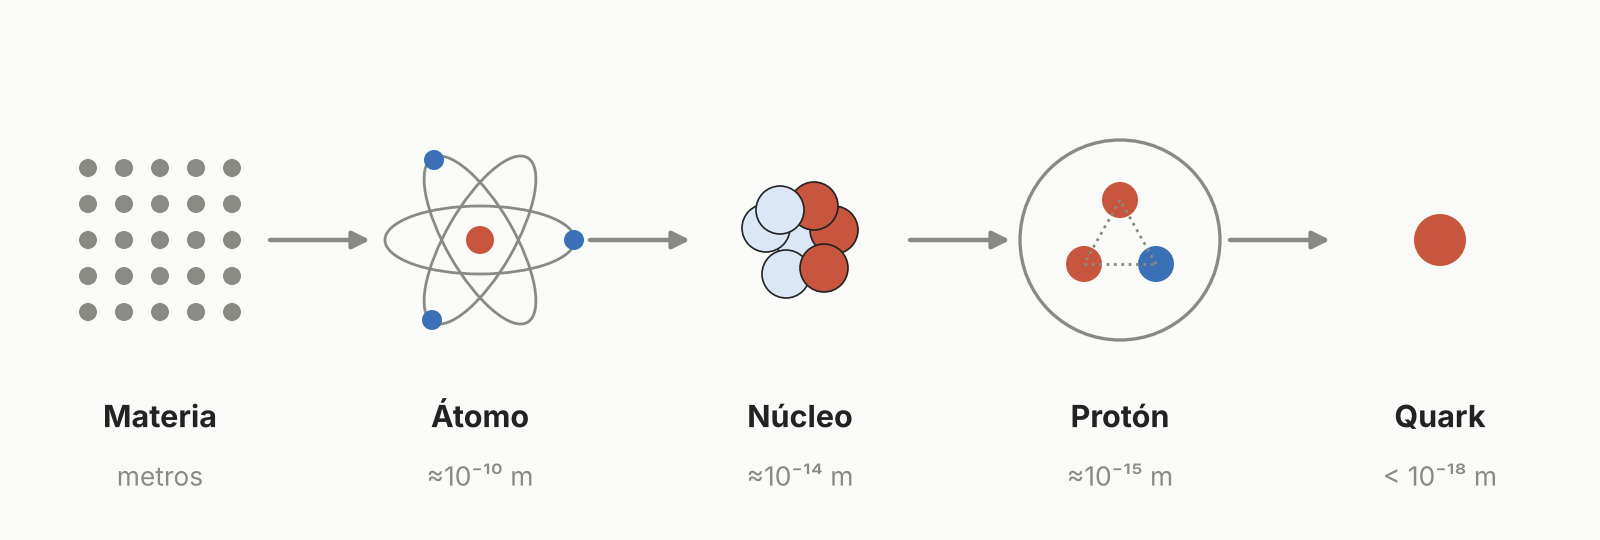
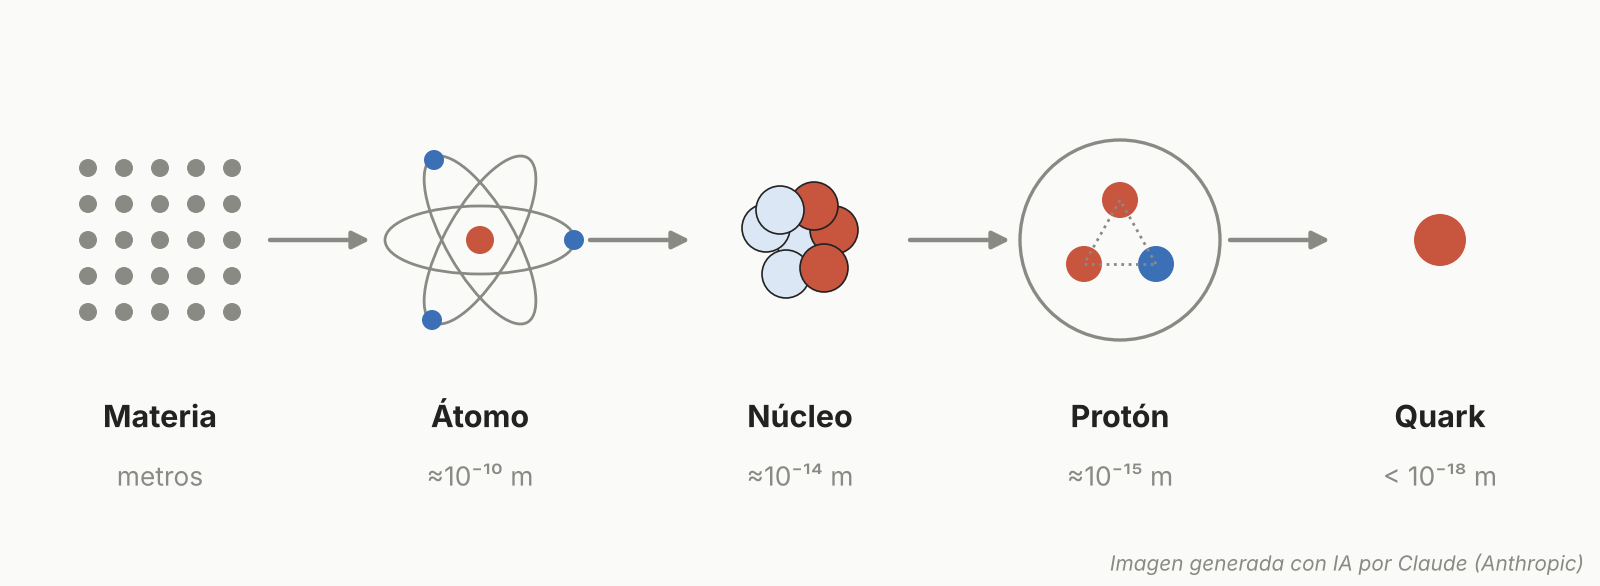
Correcciones de la asesora: energías del LHC por año, leptones medidos por CMS, imágenes con crédito de IA y ejes en español
- Línea de tiempo (imagen + tabla) con la energía de cada haz y del choque por año en la sección del LHC.
- Se especifica en varias secciones que los leptones los midió el detector CMS.
- Todas las ilustraciones llevan la leyenda 'Imagen generada con IA por Claude (Anthropic)'; créditos y README actualizados.
- Ejes de masa: 'Masa invariante de 4 leptones (GeV)' en las imágenes y en las gráficas del tutorial.
- La leyenda 'Datos' del esquema señal/fondo ahora dice 'Datos (ejemplo)'.

Claude-Session: https://claude.ai/code/session_01XBF6a4JfzPpXaimGVnXYs5

diff --git a/index.html b/index.html
@@ -21,7 +21,7 @@
   QUÉ ARCHIVOS LEE (dentro del mismo repositorio)
   -----------------------------------------------
     web_data/muestra_eventos.csv.gz   -> generado con scripts/preparar_muestra.py
-    imagenes/*.png                    -> ilustraciones (scripts/generar_imagenes.py)
+    imagenes/*.png                    -> ilustraciones generadas con IA por Claude (scripts/generar_imagenes.py)
     resultados/grafica_final.png      -> tu gráfica final oficial (opcional)
 
   CÓMO SE VE EN TU COMPUTADORA
@@ -188,7 +188,7 @@
   <p class="autor-intro">Autor: Valeria Rocha Garcia. Esta página es el producto de sus prácticas profesionales, con la asesoría de Isabel Pedraza.</p>
   <figure><img src="imagenes/portada.png" alt="" style="width:760px"></figure>
   <p>Bienvenido. En esta página vas a hacer lo mismo que hace un científico del experimento CMS:
-    tomar millones de colisiones de partículas y <strong>filtrar</strong> los datos hasta encontrar una señal
+    tomar millones de colisiones de partículas registradas por el detector CMS y <strong>filtrar</strong> los datos hasta encontrar una señal
     muy pequeña, la del <strong>bosón de Higgs</strong>. No necesitas conocimientos previos de física, solo curiosidad.</p>
   <div class="aviso info">Los datos son reales: colisiones protón-protón a 8 TeV registradas por CMS en 2012 y
     liberadas públicamente en el portal CERN Open Data.</div>
@@ -211,7 +211,7 @@
     <li>Explicar qué son las partículas, el Modelo Estándar y el bosón de Higgs.</li>
     <li>Describir cómo un detector como CMS identifica electrones y muones.</li>
     <li>Explicar qué es una simulación Monte Carlo y para qué sirve.</li>
-    <li>Aplicar cortes a datos reales y ver cómo aparece (o no) una señal.</li>
+    <li>Aplicar cortes a datos reales (los leptones que midió CMS) y ver cómo aparece (o no) una señal.</li>
   </ul>
   <h2>Ir directo a una sección</h2>
   <div class="rejilla-botones">
@@ -280,7 +280,7 @@
         </tbody>
       </table></div>
       <p>Cada partícula tiene una <strong>antipartícula</strong> con la carga contraria: el positrón (+1) para el
-        electrón y el antimuón (+1) para el muón. En el detector distinguimos ambos por hacia dónde
+        electrón y el antimuón (+1) para el muón. En el detector CMS distinguimos ambos por hacia dónde
         se curvan en el campo magnético.</p>
       <div class="aviso info">La carga eléctrica se conserva. Un Higgs es neutro, así que si se desintegra en 4 leptones,
         la suma de sus cargas debe ser cero: dos positivos y dos negativos.</div>
@@ -366,8 +366,26 @@
       <figure><img src="imagenes/lhc.png" alt="" style="width:720px"><figcaption>El LHC y sus cuatro grandes experimentos.</figcaption></figure>
       <p>El <strong>LHC</strong> (Gran Colisionador de Hadrones) es un anillo de unos 27 km de circunferencia,
         enterrado cerca de Ginebra. Acelera protones casi a la velocidad de la luz en dos haces que giran
-        en sentidos opuestos. En 2012 cada haz tenía 4 TeV, así que cada choque tenía 8 TeV de energía.
-        Cada choque se llama <strong>evento</strong>.</p>
+        en sentidos opuestos. La energía de cada choque es la suma de las energías de los dos haces:
+        en 2012 cada haz tenía 4 TeV, así que cada choque tenía 8 TeV. Cada choque se llama <strong>evento</strong>.</p>
+      <h3>La energía del LHC año con año</h3>
+      <p>El LHC no siempre ha funcionado a la misma energía: se ha ido subiendo por etapas (llamadas <em>Run</em>),
+        con paros largos entre ellas para mejorar el acelerador y los detectores.</p>
+      <figure><img src="imagenes/energias_lhc.png" alt="Gráfica de barras con la energía de colisión del LHC por año, de 2010 a 2026" style="width:720px">
+        <figcaption>Energía de cada haz y de cada choque protón-protón en el LHC, por año. Los datos de esta página son de 2012 (8 TeV).</figcaption></figure>
+      <div class="tabla-wrap"><table>
+        <thead><tr><th>Años</th><th>Etapa</th><th class="num">Energía de cada haz</th><th class="num">Energía del choque</th></tr></thead>
+        <tbody>
+          <tr><th>2010–2011</th><td>Run 1</td><td class="num">3.5 TeV</td><td class="num">7 TeV</td></tr>
+          <tr><th>2012</th><td>Run 1 (datos de esta página)</td><td class="num">4 TeV</td><td class="num"><strong>8 TeV</strong></td></tr>
+          <tr><th>2013–2014</th><td>Paro largo 1</td><td class="num">—</td><td class="num">sin colisiones</td></tr>
+          <tr><th>2015–2018</th><td>Run 2</td><td class="num">6.5 TeV</td><td class="num">13 TeV</td></tr>
+          <tr><th>2019–2021</th><td>Paro largo 2</td><td class="num">—</td><td class="num">sin colisiones</td></tr>
+          <tr><th>2022–2026</th><td>Run 3</td><td class="num">6.8 TeV</td><td class="num">13.6 TeV</td></tr>
+        </tbody>
+      </table></div>
+      <p class="caption">Energía del choque = 2 × energía de cada haz (los dos haces chocan de frente).
+        Valores para colisiones protón-protón.</p>
       <p>Los protones viajan en paquetes que se cruzan decenas de millones de veces por segundo, y en
         cada cruce chocan, en promedio, alrededor de 20 pares de protones a la vez. Es imposible guardar
         todo: un sistema de selección llamado <em>trigger</em> decide en una fracción de segundo qué eventos
@@ -405,7 +423,8 @@
 
     <div class="tabpanel">
       <h2>Las variables que usaremos</h2>
-      <p>Estas son las medidas que usan los cortes del tutorial. Cada una se explica con un esquema.</p>
+      <p>Estas son las medidas que el detector CMS hizo de cada leptón y que usan los cortes del tutorial.
+        Cada una se explica con un esquema.</p>
       <h3>η y pT: ¿hacia dónde va y con cuánta fuerza?</h3>
       <figure><img src="imagenes/eta_pt.png" alt="" style="width:720px"></figure>
       <p><strong>η (eta)</strong> indica el ángulo respecto al haz: η = 0 es perpendicular y valores grandes son casi
@@ -425,10 +444,10 @@
 
     <div class="tabpanel">
       <h2>Del detector al archivo CSV</h2>
-      <figure><img src="imagenes/evento_csv.png" alt="" style="width:720px"><figcaption>Cada evento con 4 leptones se convierte en una fila de la tabla.</figcaption></figure>
+      <figure><img src="imagenes/evento_csv.png" alt="" style="width:720px"><figcaption>Cada evento con 4 leptones medidos por CMS se convierte en una fila de la tabla.</figcaption></figure>
       <ol>
         <li>El detector registra la colisión y el <em>trigger</em> decide si la guarda.</li>
-        <li>Se <strong>reconstruyen</strong> las partículas a partir de las señales de cada capa.</li>
+        <li>Se <strong>reconstruyen</strong> las partículas (por ejemplo, los leptones) a partir de las señales que dejaron en cada capa de CMS.</li>
         <li>CERN Open Data publica los eventos en archivos con formato ROOT.</li>
         <li>Nosotros los convertimos a <strong>CSV</strong>: una fila por evento y una columna por cada medición
           (<code>pt1</code>, <code>eta1</code>, <code>Q1</code>…).</li>
@@ -451,9 +470,12 @@
 
     <div class="tabpanel">
       <h2>La receta de un análisis</h2>
+      <div class="aviso info">Todos los leptones (electrones y muones) que se analizan en esta página fueron
+        <strong>medidos por el detector CMS</strong> del LHC en 2012. Nosotros no medimos nada: analizamos las
+        mediciones que hizo CMS y que la colaboración publicó en el portal CERN Open Data.</div>
       <ol>
         <li><strong>Elegir qué buscar:</strong> un proceso concreto, aquí H → ZZ → 4 leptones.</li>
-        <li><strong>Seleccionar eventos:</strong> aplicar cortes para quedarnos con los que parecen la señal.</li>
+        <li><strong>Seleccionar eventos:</strong> aplicar cortes a los leptones que midió CMS para quedarnos con los eventos que parecen la señal.</li>
         <li><strong>Predecir el fondo:</strong> con simulaciones Monte Carlo, qué esperamos <em>sin</em> Higgs.</li>
         <li><strong>Comparar con los datos:</strong> poner datos y predicción en la misma gráfica.</li>
         <li><strong>Medir la incertidumbre:</strong> ¿el exceso es mayor que una fluctuación al azar?</li>
@@ -464,8 +486,9 @@
     <div class="tabpanel">
       <h2>La masa invariante</h2>
       <figure><img src="imagenes/masa_invariante.png" alt="" style="width:720px"></figure>
-      <p>Si una partícula pesada se desintegra, no podemos verla, pero sí a sus hijas. Con la energía
-        y el momento de las hijas se reconstruye la masa de la madre:</p>
+      <p>Si una partícula pesada se desintegra, no podemos verla, pero el detector CMS sí mide a sus hijas
+        (aquí, los leptones). Con la energía y el momento que CMS midió para las hijas se reconstruye la masa
+        de la madre:</p>
       <div class="formula"><i>m</i><sup>2</sup> = <i>E</i><sup>2</sup> − <i>p<sub>x</sub></i><sup>2</sup> − <i>p<sub>y</sub></i><sup>2</sup> − <i>p<sub>z</sub></i><sup>2</sup>
         &nbsp;&nbsp;(<i>E</i> y <b>p</b> sumados de todas las hijas)</div>
       <p>Ejemplo: si un electrón y un positrón vienen de un Z, su masa invariante sale cerca de 91 GeV.
@@ -475,8 +498,9 @@
       <hr>
       <!-- Ejercicio interactivo (lo llena JavaScript: ver "EJERCICIO DE MASA INVARIANTE") -->
       <h3>Ejercicio: ¿de qué partícula vienen estos leptones?</h3>
-      <p>Un detector midió los leptones de la tabla (los tratamos sin masa, porque es muy pequeña comparada
-        con su energía). <strong>Calcula su masa invariante</strong> y decide qué partícula los produjo.</p>
+      <p>Imagina que el detector CMS midió los leptones de la tabla. Son valores de ejemplo, generados para
+        este ejercicio con el mismo formato que usa CMS (pT, η, φ). Los tratamos sin masa, porque es muy pequeña
+        comparada con su energía. <strong>Calcula su masa invariante</strong> y decide qué partícula los produjo.</p>
       <div class="fila" style="justify-content:space-between">
         <div class="opciones horizontal" id="ej-nivel">
           <strong style="margin-right:1rem">Nivel</strong>
@@ -492,8 +516,8 @@
       <h2>¿Por qué buscar el Higgs en 4 leptones?</h2>
       <figure><img src="imagenes/higgs_decay.png" alt="" style="width:720px"><figcaption>Esquema de la desintegración H → ZZ* → 4 leptones.</figcaption></figure>
       <p>Una forma en que el Higgs se desintegra es <strong>H → Z + Z* → 4 leptones</strong> (electrones o muones).
-        Es un canal muy raro, solo alrededor de 1 Higgs de cada 8,000, pero muy <strong>limpio</strong>: los leptones
-        se miden con gran precisión y hay poco ruido de fondo. Junto con la desintegración en dos fotones,
+        Es un canal muy raro, solo alrededor de 1 Higgs de cada 8,000, pero muy <strong>limpio</strong>: el detector
+        CMS mide los leptones con gran precisión y hay poco ruido de fondo. Junto con la desintegración en dos fotones,
         fue uno de los canales del descubrimiento de 2012.</p>
       <p>Como el Higgs (125 GeV) pesa menos que dos Z (2 × 91 GeV), una de las dos Z es <em>virtual</em> y
         tiene una masa menor. Por eso en los cortes la masa de Z2 se permite desde 12 GeV.</p>
@@ -517,7 +541,7 @@
 
     <div class="tabpanel">
       <h2>Selección de eventos: los cortes</h2>
-      <p>Entre millones de eventos, casi todos contienen leptones <em>falsos</em> (por ejemplo, de otras
+      <p>Entre los millones de eventos que registró CMS, casi todos contienen leptones <em>falsos</em> (por ejemplo, de otras
         partículas que se parecen a un leptón). Un <strong>corte</strong> (o filtro) descarta eventos que no
         se comportan como un Higgs real. Los que usamos:</p>
       <div class="tabla-wrap"><table>
@@ -652,7 +676,7 @@
 
     <div class="tabpanel">
       <h2>¿Cómo se ven los archivos CSV?</h2>
-      <p>Cada fila es un <strong>evento</strong> con 4 leptones. Las columnas con número (1 a 4) se repiten para
+      <p>Cada fila es un <strong>evento</strong> con 4 leptones medidos por el detector CMS. Las columnas con número (1 a 4) se repiten para
         cada leptón, ordenados por pT.</p>
       <div class="tabla-wrap"><table>
         <thead><tr><th>Columna</th><th>Significado</th></tr></thead>
@@ -728,7 +752,7 @@
     <div class="tabpanel">
       <h2>Lo que aprendiste</h2>
       <ul>
-        <li>Los datos de colisiones contienen muchísimo ruido; los <strong>cortes</strong> sirven para limpiarlos.</li>
+        <li>Los datos de colisiones que registró CMS contienen muchísimo ruido; los <strong>cortes</strong> sirven para limpiarlos.</li>
         <li>Las <strong>simulaciones Monte Carlo</strong> nos dicen qué esperar de la señal y del fondo, y los <strong>pesos</strong>
           permiten compararlas con los datos.</li>
         <li>El Higgs se busca como un <strong>pico</strong> cerca de 125 GeV en la masa de 4 leptones.</li>
@@ -769,7 +793,8 @@
     <li>Autor: <strong>Valeria Rocha Garcia</strong>. Esta página es el producto de sus prácticas profesionales, con la asesoría de <strong>Isabel Pedraza</strong>.</li>
     <li>Datos: colaboración CMS, portal <a href="https://opendata.cern.ch/record/12360" target="_blank" rel="noopener">CERN Open Data</a>, licencia CC0.</li>
     <li>Análisis basado en: CMS Collaboration, <em>Observation of a new boson at a mass of 125 GeV</em>, arXiv:1207.7235.</li>
-    <li>Las ilustraciones son esquemas hechos para esta página; no son imágenes reales de CMS ni están a escala.</li>
+    <li>Las ilustraciones (carpeta <code>imagenes/</code>) son esquemas <strong>generados con inteligencia artificial por Claude</strong>
+      (Anthropic) para esta página, y cada una lo indica en su esquina inferior. No son imágenes reales de CMS ni están a escala.</li>
     <li>Esta página está inspirada en la aplicación <em>ATLAS Open Data en el aula</em>.</li>
   </ul>
 </section>
@@ -1070,8 +1095,8 @@ function figura(ok, titulo) {
     s += `<line x1="${izq - 5}" y1="${Y(v)}" x2="${izq}" y2="${Y(v)}" stroke="black"/>` +
          `<text x="${izq - 8}" y="${Y(v) + 4}" text-anchor="end">${g(v)}</text>`;
   }
-  s += `<text x="${izq + anchoP / 2}" y="${A - 12}" text-anchor="middle" font-size="17">Mass 4 leptons / GeV</text>`;
-  s += `<text transform="translate(20,${arr + altoP / 2}) rotate(-90)" text-anchor="middle" font-size="17">N_Events</text>`;
+  s += `<text x="${izq + anchoP / 2}" y="${A - 12}" text-anchor="middle" font-size="17">Masa invariante de 4 leptones (GeV)</text>`;
+  s += `<text transform="translate(20,${arr + altoP / 2}) rotate(-90)" text-anchor="middle" font-size="17">Número de eventos</text>`;
   // leyenda (arriba a la derecha)
   const lx = izq + anchoP - 290, ly = arr + 18;
   s += `<line x1="${lx}" y1="${ly}" x2="${lx + 22}" y2="${ly}" stroke="red" stroke-width="2"/>` +
@@ -1506,7 +1531,7 @@ const PREGUNTAS = [
    "Porque el Higgs es neutro", "Dos Z neutras dan 2 leptones positivos y 2 negativos."],
 ];
 const GLOSARIO = [
-  ["Evento", "Una colisión registrada por el detector."],
+  ["Evento", "Una colisión registrada por el detector CMS."],
   ["Leptón", "Partícula elemental como el electrón o el muón."],
   ["Fermión / bosón", "Fermiones forman la materia; bosones transmiten las fuerzas."],
   ["Campo de Higgs", "Campo que llena el espacio y da masa a las partículas elementales."],

diff --git a/scripts/generar_imagenes.py b/scripts/generar_imagenes.py
@@ -4,6 +4,9 @@ generar_imagenes.py
 Genera las ilustraciones de la página web (esquemas, NO fotografías ni imágenes
 reales de CMS) y las guarda como PNG en la carpeta `imagenes/` del repositorio.
 
+Las ilustraciones fueron generadas con inteligencia artificial (Claude, de Anthropic).
+Por eso cada imagen lleva abajo a la derecha la leyenda de CREDITO_IA.
+
 Todas usan un fondo claro propio, para que se vean bien tanto si el navegador
 está en modo claro como en modo oscuro.
 
@@ -13,10 +16,12 @@ Cómo se usa (desde la carpeta principal del repositorio):
 Si quieres cambiar colores o textos, edita este archivo y vuelve a ejecutarlo.
 """
 
+import io
 from pathlib import Path
 
 import numpy as np
 from matplotlib.figure import Figure
+from matplotlib.image import imread
 from matplotlib.patches import Arc, Circle, Ellipse, FancyBboxPatch, Rectangle, Wedge
 
 SALIDA = Path(__file__).resolve().parent.parent / "imagenes"
@@ -38,8 +43,23 @@ def lienzo(w, h):
     return fig, ax
 
 
+CREDITO_IA = "Imagen generada con IA por Claude (Anthropic)"
+DPI = 200
+
+
 def guardar(fig, nombre):
-    fig.savefig(SALIDA / nombre, dpi=200, facecolor=FONDO)
+    """Guarda la figura y le agrega abajo una franja con la leyenda CREDITO_IA."""
+    buf = io.BytesIO()
+    fig.savefig(buf, format="png", dpi=DPI, facecolor=FONDO)
+    buf.seek(0)
+    img = imread(buf)
+    alto, ancho = img.shape[:2]
+    franja = 46                                   # alto de la franja de la leyenda, en pixeles
+    final = Figure(figsize=(ancho / DPI, (alto + franja) / DPI), dpi=DPI, facecolor=FONDO)
+    final.figimage(img, xo=0, yo=franja, origin="upper")
+    final.text(1 - 16 / ancho, franja / 2 / (alto + franja), CREDITO_IA,
+               ha="right", va="center", fontsize=7.5, color=GRIS, style="italic")
+    final.savefig(SALIDA / nombre, dpi=DPI, facecolor=FONDO)
     print("listo:", nombre)
 
 
@@ -259,6 +279,49 @@ def lhc():
     guardar(fig, "lhc.png")
 
 
+# ---------------------------------------------------------------- 6b. línea de tiempo de energías del LHC
+# Colisiones protón-protón. Energía de colisión = 2 × energía de cada haz.
+PERIODOS_LHC = [  # (año inicio, año fin, nombre, energía por haz [TeV] o None si el LHC estuvo parado)
+    (2010, 2011, "Run 1", 3.5),
+    (2012, 2012, "Run 1", 4.0),
+    (2013, 2014, "Paro largo 1", None),
+    (2015, 2018, "Run 2", 6.5),
+    (2019, 2021, "Paro largo 2", None),
+    (2022, 2026, "Run 3", 6.8),
+]
+
+
+def energias_lhc():
+    fig = Figure(figsize=(8, 4.3), facecolor=FONDO)
+    ax = fig.add_axes([0.085, 0.2, 0.89, 0.66], facecolor=FONDO)
+    ax.spines[["top", "right"]].set_visible(False)
+    for ini, fin, nombre, haz in PERIODOS_LHC:
+        x0, ancho = ini - 0.45, fin - ini + 0.9
+        if haz is None:
+            ax.add_patch(Rectangle((x0, 0), ancho, 1.2, fc=GRIS_CLARO, ec="none"))
+            texto(ax, (ini + fin) / 2, 2.1, f"{nombre}\n(sin colisiones)", fs=8, color=GRIS)
+            continue
+        es_2012 = ini == 2012
+        fc, ec = (ROJO_CLARO, ROJO) if es_2012 else (AZUL_CLARO, AZUL)
+        choque = 2 * haz
+        ax.add_patch(Rectangle((x0, 0), ancho, choque, fc=fc, ec=ec, lw=1.3))
+        texto(ax, (ini + fin) / 2, choque + 0.75, f"{choque:g} TeV", fs=10.5, weight="bold", color=ec)
+        texto(ax, (ini + fin) / 2, choque / 2, f"{haz:g} + {haz:g}", fs=9, color=TINTA)
+        texto(ax, (ini + fin) / 2, choque - 0.6, nombre, fs=8, color=GRIS)
+    ax.annotate("datos de\nesta página", xy=(2012.47, 6.0), xytext=(2013.55, 9.2), fontsize=8.5, color=ROJO,
+                ha="center", arrowprops=dict(arrowstyle="->", color=ROJO))
+    ax.set_xlim(2009.4, 2026.6)
+    ax.set_ylim(0, 15.5)
+    ax.set_xticks(range(2010, 2027))
+    ax.set_xticklabels([str(a) for a in range(2010, 2027)], rotation=45, fontsize=8.5)
+    ax.tick_params(axis="y", labelsize=9)
+    ax.set_ylabel("Energía de colisión (TeV)", fontsize=9.5)
+    ax.set_title("Energía del LHC por año (colisiones protón-protón)", fontsize=11)
+    fig.text(0.5, 0.015, "Dentro de cada barra: energía de cada haz (TeV).  Arriba: energía del choque = suma de los dos haces.",
+             ha="center", fontsize=8.5, color=GRIS)
+    guardar(fig, "energias_lhc.png")
+
+
 # ---------------------------------------------------------------- 7. detector CMS (corte transversal)
 def cms_detector():
     fig, ax = lienzo(8, 5.4)
@@ -406,7 +469,7 @@ def masa_invariante():
         ax.spines[["top", "right"]].set_visible(False)
         ax.set_xticks([70, 100, 125, 150, 180]); ax.set_yticks([])
         ax.tick_params(labelsize=8.5)
-        ax.set_xlabel("masa de 4 leptones (GeV)", fontsize=9)
+        ax.set_xlabel("Masa invariante de 4 leptones (GeV)", fontsize=9)
         ax.set_ylabel("eventos", fontsize=9)
         ax.set_title(tit, fontsize=10.5)
         y = fondo + (pico if k else 0)
@@ -457,8 +520,8 @@ def senal_fondo():
     ax.stairs(zz, bordes, fill=True, fc=AZUL_CLARO, ec=AZUL, lw=1.2, label="Fondo ZZ (simulación)")
     rng = np.random.default_rng(11)
     datos = rng.poisson(zz + h)
-    ax.errorbar(c, datos, yerr=np.sqrt(np.maximum(datos, 1)), fmt="o", color=TINTA, ms=3.5, label="Datos")
-    ax.set_xlabel("masa de 4 leptones (GeV)", fontsize=9.5)
+    ax.errorbar(c, datos, yerr=np.sqrt(np.maximum(datos, 1)), fmt="o", color=TINTA, ms=3.5, label="Datos (ejemplo)")
+    ax.set_xlabel("Masa invariante de 4 leptones (GeV)", fontsize=9.5)
     ax.set_ylabel("eventos", fontsize=9.5)
     ax.set_ylim(0, 25)
     ax.tick_params(labelsize=9)
@@ -647,7 +710,7 @@ def coordenadas():
 
 
 if __name__ == "__main__":
-    for f in (portada, atomo, modelo_estandar, campo_higgs, higgs_decay, lhc, cms_detector, eta_pt, impacto,
+    for f in (portada, atomo, modelo_estandar, campo_higgs, higgs_decay, lhc, energias_lhc, cms_detector, eta_pt, impacto,
               aislamiento, masa_invariante, montecarlo_flujo, senal_fondo, pesos, poisson, evento_csv,
               higgs_desintegraciones, coordenadas):
         f()

diff --git a/README.md b/README.md
@@ -12,7 +12,7 @@ con datos abiertos de CMS de 2012.
 |---|---|
 | `index.html` | La página web completa (HTML + JavaScript). Todo el cálculo lo hace el navegador. |
 | `web_data/muestra_eventos.csv.gz` | Muestra reducida (una fila por evento) que lee la página. **Es lo único de datos que necesita.** |
-| `imagenes/` | Ilustraciones de la página (PNG). |
+| `imagenes/` | Ilustraciones de la página (PNG), generadas con IA por Claude (Anthropic). |
 | `scripts/` | Código del análisis: `02_cutflow.py`, `03_grafica_final.py`, `preparar_muestra.py` (genera la muestra) y `generar_imagenes.py` (genera las ilustraciones). |
 | `resultados/` | Gráficas y tablas del análisis (opcional). Si existe `resultados/grafica_final.png`, la página la muestra en "Resultado final". |
 | `requirements.txt` | Librerías de Python para los scripts (la página no las necesita). |
@@ -61,4 +61,5 @@ Los valores de los cortes oficiales están al inicio del código JavaScript de `
 - Autor: Valeria Rocha Garcia. Producto de sus prácticas profesionales, con la asesoría de Isabel Pedraza.
 - Datos: colaboración CMS, [CERN Open Data](https://opendata.cern.ch/record/12360), licencia CC0.
 - Análisis basado en: CMS Collaboration, *Observation of a new boson at a mass of 125 GeV*, arXiv:1207.7235.
-- Las ilustraciones son esquemas hechos para esta página; no son imágenes reales de CMS ni están a escala.
+- Las ilustraciones son esquemas generados con inteligencia artificial por Claude (Anthropic) para esta página;
+  cada imagen lo indica en su esquina inferior. No son imágenes reales de CMS ni están a escala.
